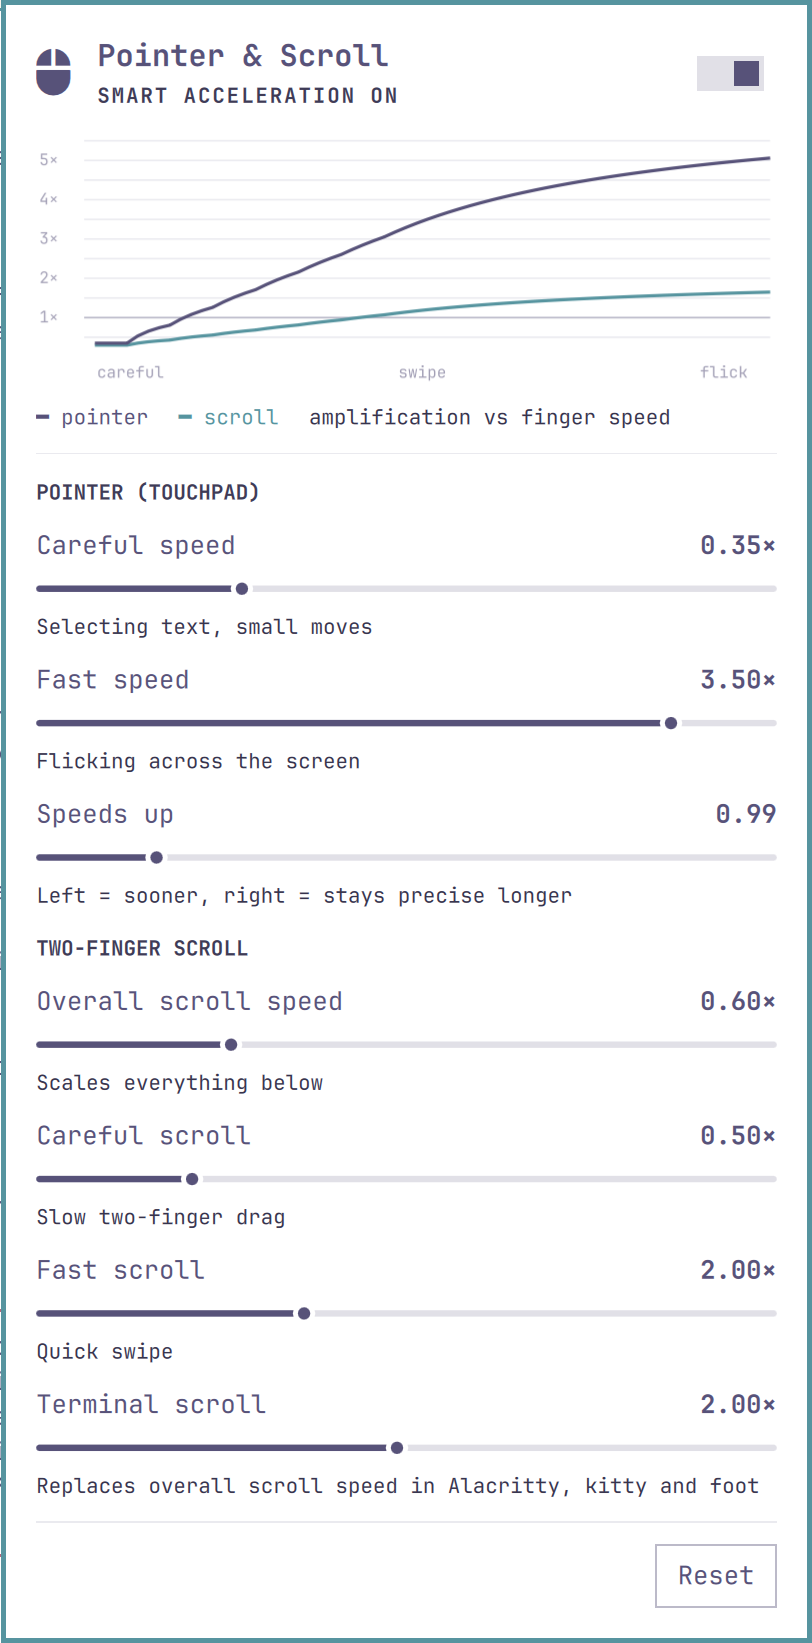
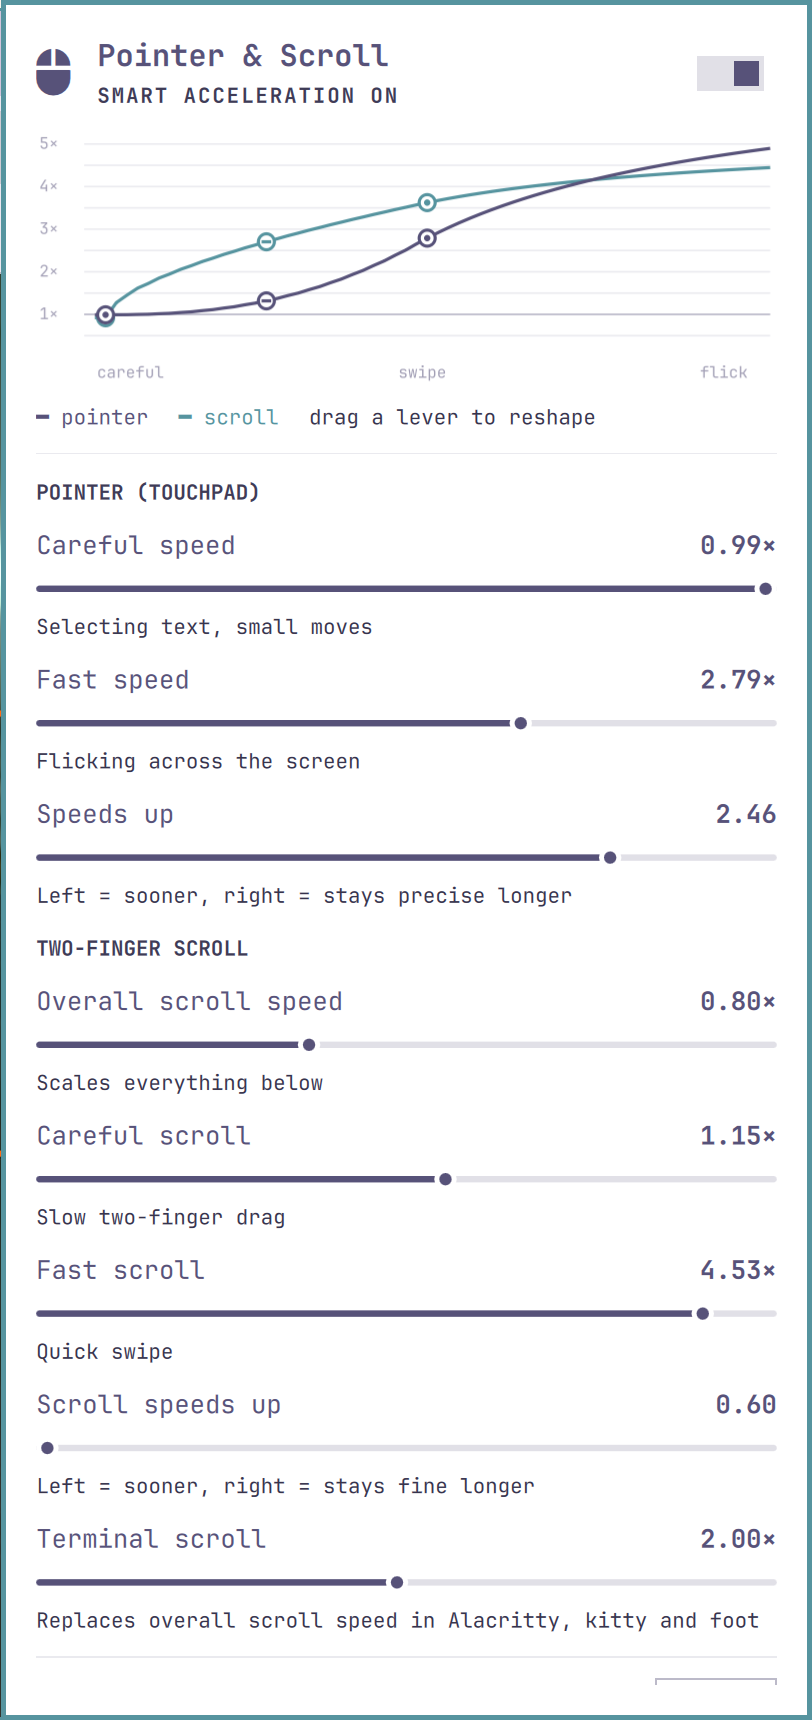
Tighter row spacing so the whole panel fits on a laptop screen

diff --git a/Panel.qml b/Panel.qml
@@ -333,7 +333,7 @@ Panel {
         Column {
           id: column
           width: parent.width
-          spacing: Style.space(10)
+          spacing: Style.space(6)
 
           // ---------- Hero ----------
           Item {
@@ -396,7 +396,7 @@ Panel {
           // ---------- First-run setup ----------
           Column {
             width: parent.width
-            spacing: Style.space(10)
+            spacing: Style.space(6)
             visible: !root.ready
 
             PanelSeparator { width: parent.width }
@@ -432,7 +432,7 @@ Panel {
           Column {
             id: mainContent
             width: parent.width
-            spacing: Style.space(10)
+            spacing: Style.space(6)
             visible: root.ready
 
             // ---------- Graph ----------
